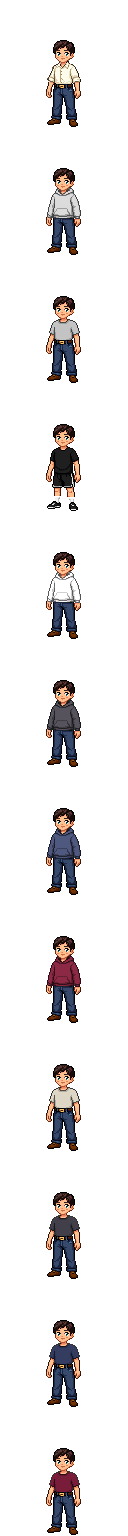
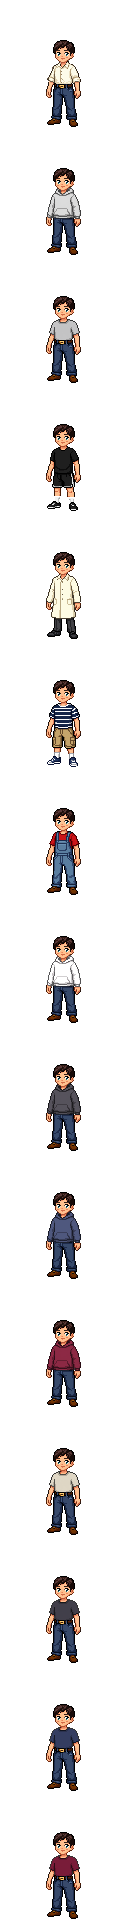
Daily 2.3.1 (sin publicar): ropa de chico para niño y niña
Claude-Session: https://claude.ai/code/session_018K2oLYSpPtdcPdEUVYj7Hk

Changed region(s): [[0.3438, 0.0, 0.625, 1.0]]

diff --git a/pruebas/t38.js b/pruebas/t38.js
@@ -43,6 +43,8 @@ const { chromium } = require('playwright'); const fs = require('fs');
     const cv = document.createElement('canvas'), cv2 = document.createElement('canvas'); PJ.pintar(cv, { sx: 'f', edad: 'mayor', peinado: 'rodete', prenda: 'buzo:azul' }); PJ.pintar(cv2, { sx: 'f', edad: 'mayor', prenda: 'buzo:azul' });
     return { pe: o.peinados.map(x => x[0]), joven: oj.peinados.map(x => x[0]), distinto: cv.toDataURL() !== cv2.toDataURL(), pr: PJ.opciones(PJ.normal({ sx: 'm', edad: 'adulto' })).prendas.map(x => x[0]) }; });
   ok(pm.pe.join() === 'base,rodete' && !pm.joven.includes('rodete') && pm.distinto, 'la mayor tiene anteojos o rodete (y la joven no tiene rodete): ' + JSON.stringify(pm));
+  const pn = await p.evaluate(async () => { const PJ = await import('./js/personaje.js'); await PJ.cargar(); return [PJ.opciones(PJ.normal({ sx: 'm', edad: 'nino' })).prendas.map(x => x[0]), PJ.opciones(PJ.normal({ sx: 'f', edad: 'nino' })).prendas.map(x => x[0]), PJ.opciones(PJ.normal({ sx: 'm' })).prendas.map(x => x[0])]; });
+  ok(['guardapolvo', 'rayada', 'jardinero'].every(x => pn[0].includes(x)) && ['guardapolvo', 'vestido', 'jardinero'].every(x => pn[1].includes(x)) && !pn[2].includes('guardapolvo'), 'los chicos tienen ropa de chico (y el joven no): ' + JSON.stringify(pn));
   ok(['remera', 'buzo', 'camisa', 'deportiva'].every(x => pm.pr.includes(x)) && !pm.pr.includes('sotana'), 'el adulto tiene toda la ropa laica del joven: ' + pm.pr);
   }
   if (listas.includes('nino')) { await p.click('.seg.edad button[data-p="edad|nino"]'); await p.waitForTimeout(600);

diff --git a/js/personaje.js b/js/personaje.js
@@ -4,8 +4,8 @@
 const VISTAS=["south"];   // desde la 1.6.1 la hoja trae solo el frente
 
 export const COLORES=[["gris","Gris","#A9ABB2"],["blanco","Blanco","#EEEDE8"],["negro","Negro","#2C2D33"],["azul","Azul","#2E3E66"],["bordo","Bordó","#6E1E2E"]];
-export const PRENDAS={m:[["base","Camisa clara"],["remera","Remera"],["buzo","Buzo"],["camisa","Camisa"],["deportiva","Deportiva"],["sotana","Sotana"],["clergyman","Clergyman"]],
-  f:[["base","Blusa y jean"],["remera","Remera"],["buzo","Buzo"],["pollera","Pollera"],["deportiva","Deportiva"],["consagrada","Consagrada"],["caridad","Misionera de la Caridad"],["dominica","Dominica"],["carmelita","Carmelita"]]};
+export const PRENDAS={m:[["base","Camisa clara"],["remera","Remera"],["buzo","Buzo"],["camisa","Camisa"],["deportiva","Deportiva"],["guardapolvo","Guardapolvo"],["rayada","Remera rayada"],["jardinero","Jardinero"],["sotana","Sotana"],["clergyman","Clergyman"]],
+  f:[["base","Blusa y jean"],["remera","Remera"],["buzo","Buzo"],["pollera","Pollera"],["deportiva","Deportiva"],["guardapolvo","Guardapolvo"],["vestido","Vestido"],["jardinero","Jardinero"],["consagrada","Consagrada"],["caridad","Misionera de la Caridad"],["dominica","Dominica"],["carmelita","Carmelita"]]};
 export const CON_COLOR=["remera","buzo","camisa","pollera"];
 export const VELO=["consagrada","caridad","dominica","carmelita"];
 export const FIJO={};   // 2.1.3: el clergyman y la deportiva ya tienen varios peinados (los que no existen no se ofrecen)

diff --git a/js/app.js b/js/app.js
@@ -1857,7 +1857,7 @@ try{ if(localStorage.getItem("daily_theme")==="light") document.documentElement.
    2) Al abrir la versión nueva: una vez, la hoja «Novedades» con lo que cambió desde la última que viste (NOVEDADES, la más nueva primero).
    En cada versión nueva hay que sumar su entrada acá (t38 lo comprueba). */
 const NOVEDADES=[
-  ["2.3.1",["Tu personaje puede ser niño, joven, adulto o mayor (en Yo), con toda su ropa y sus colores.","La abuela tiene dos peinados: con anteojos o con rodete."]],
+  ["2.3.1",["Tu personaje puede ser niño, joven, adulto o mayor (en Yo), con toda su ropa y sus colores.","Ropa de chico para el niño y la niña: guardapolvo, jardinero, remera rayada y vestido.","La abuela tiene dos peinados: con anteojos o con rodete."]],
   ["2.3",["Elegí el tono de piel de tu personaje (en Yo).","Lo que ya rezaste hoy aparece con un tilde, y el inicio te propone lo que te falta.","El lápiz para editar tu personaje está en la esquina.","Liturgia de las Horas: qué es y para qué sirve cada Hora.","Este aviso: cada vez que actualicemos la app, vas a ver acá las novedades."]],
   ["2.2.7",["Scaeli Daily está en su dirección propia: daily.scaeli.com.ar."]],
   ["2.2.6",["En Hoy podés anotar una caída de un hábito con el «−».","Lo que rezás en la app marca solo el hábito del mismo nombre.","Ya se puede conectar Google Calendar."]]];

diff --git a/herramientas/edades_pixellab.py b/herramientas/edades_pixellab.py
@@ -21,9 +21,13 @@ COLORES = E.COLORES
 LAICAS = {'m': ['base', 'remera', 'buzo', 'camisa', 'deportiva'], 'f': ['base', 'remera', 'buzo', 'pollera', 'deportiva']}
 CABEZAS = {('m', 'adulto'): {'base': 'adulto_m_base_1'}, ('m', 'mayor'): {'base': 'mayor_m_base_1'},
            ('f', 'adulto'): {'base': 'adulta_f_base_2'}, ('f', 'mayor'): {'base': 'mayor_f_base_2', 'rodete': 'mayor_f_base_3'}}
-NINOS = {'m': {'base|base': 'nino_m_base_3', 'buzo:gris|base': 'nino_m_buzo2', 'remera:gris|base': 'nino_m_remera', 'deportiva|base': 'nino_m_deportiva'},
+NINOS = {'m': {'base|base': 'nino_m_base_3', 'buzo:gris|base': 'nino_m_buzo2', 'remera:gris|base': 'nino_m_remera', 'deportiva|base': 'nino_m_deportiva',
+               'guardapolvo|base': 'nino_m_guardapolvo', 'rayada|base': 'nino_m_rayada', 'jardinero|base': 'nino_m_jardinero'},
          'f': {'base|base': 'nina_f_base_2', 'buzo:gris|base': 'nina_f_buzo', 'remera:gris|base': 'nina_f_remera',
-               'pollera:gris|base': 'nina_f_pollera', 'deportiva|base': 'nina_f_deportiva'}}
+               'pollera:gris|base': 'nina_f_pollera', 'deportiva|base': 'nina_f_deportiva',
+               'guardapolvo|base': 'nina_f_guardapolvo', 'vestido|base': 'nina_f_vestido', 'jardinero|base': 'nina_f_jardinero'}}
+# ropa de chico (2.3.1, «los niños pueden tener ropa justamente de niño»): guardapolvo blanco, jardinero de jean,
+# remera rayada con bermuda (él) y vestido (ella); sin colores, como salieron de PixelLab
 
 def img(p): return np.array(Image.open(p).convert('RGBA')).astype(int)
 def frame(sx, k): return np.array(E.frame(E.hoja(sx), sx, k)).astype(int)

diff --git a/LEEME-DAILY.md b/LEEME-DAILY.md
@@ -52,9 +52,9 @@ bash pruebas/todo.sh                                     # levanta el servidor e
 - **Más adelante**: poses de oración; insignias del grupo leídas por el juego; el logo del atleta en las 8 vistas de Fit.
 
 ## Últimas versiones (detalle en LEEME-PRIMERO.md)
-- **2.3.1** (16/11, «la mujer adulta, adulta mayor, los niños y el adulto mayor están muy mal hechos… los niños tienen que ser con otro cuerpo»): **edades rehechas en PixelLab** (cuenta de Lorenzo, Creator, modelo Pixen, 1 generación cada imagen; se usaron 22 de 40). Mientras tanto la app publicada siguió en 2.3 (no se publicó nada sin su ok). Lorenzo eligió entre opciones: niño 1, niña B, adulto 1 (barba), adulta, mayor él, y la mayor con **dos peinados** (anteojos = `base`, rodete = `rodete`, nuevo en `PEINADOS.f`, solo existe en `f_mayor`).
+- **2.3.1** (16/11, «la mujer adulta, adulta mayor, los niños y el adulto mayor están muy mal hechos… los niños tienen que ser con otro cuerpo»): **edades rehechas en PixelLab** (cuenta de Lorenzo, Creator, modelo Pixen, 1 generación cada imagen; se usaron 28 de 40). Mientras tanto la app publicada siguió en 2.3 (no se publicó nada sin su ok). Lorenzo eligió entre opciones: niño 1, niña B, adulto 1 (barba), adulta, mayor él, y la mayor con **dos peinados** (anteojos = `base`, rodete = `rodete`, nuevo en `PEINADOS.f`, solo existe en `f_mayor`).
   - **Adultos y mayores**: «Edit image» sobre el dibujo del joven con la ropa de base («Change his/her age to…, keep the same pose, body size, clothes»). PixelLab cambia solo la cabeza (filas 0–40), así que `herramientas/edades_pixellab.py` pone esa cabeza sobre **toda la ropa laica del joven** (camisa clara, remera, buzo, camisa, deportiva, pollera, cinco colores) sin más créditos: arriba la cabeza entera, en la franja del cuello lo que la edad cambió (barba, canas) y la cara del joven, abajo la ropa; si la edad no tiene la colita del joven, se rellena con la ropa del otro hombro (espejo).
-  - **Niños**: dibujo nuevo con «Create image» de 96 × 96 (más bajo, otro cuerpo; prompt «realistic child proportions, not chibi, not anime… western RPG style»), pies alineados con el joven en el lienzo de 128; su ropa con «Edit image» (buzo con capucha baja, remera, deportiva y pollera, en gris) y los otros colores teñidos (`edades.recolor`).
+  - **Niños**: dibujo nuevo con «Create image» de 96 × 96 (más bajo, otro cuerpo; prompt «realistic child proportions, not chibi, not anime… western RPG style»), pies alineados con el joven en el lienzo de 128; su ropa con «Edit image» (buzo con capucha baja, remera, deportiva y pollera, en gris) y los otros colores teñidos (`edades.recolor`). Además **ropa de chico** («los niños pueden tener ropa justamente de niño»): guardapolvo blanco, jardinero de jean, remera rayada con bermuda (él) y vestido celeste (ella), sin colores (`PRENDAS`: guardapolvo, rayada, jardinero, vestido; solo existen en las hojas de niños).
   - Fuentes en `herramientas/pixellab_edades/` (también las opciones descartadas). Cómo se bajan las imágenes de PixelLab sin descargar archivos: el Creator las tiene como `data:` en la página; se codifican (paleta + índices comprimidos) en un `<article>` oculto y se leen con el texto de la página.
   - Las edades de Gemini de la 2.3 quedaron reemplazadas (`herramientas/edades.py` sigue sirviendo por `recolor`). `EDADES_LISTAS` (js/personaje.js) dice qué edades se ofrecen; una edad oculta cae en Joven. NOVEDADES 2.3.1. t38 actualizada (cuatro edades, rodete, ropa laica del adulto). SW v44; Android versionCode 11.
 - **2.3** (16/11, «cada vez que actualicemos tiene que aparecer un aviso… más colores de piel… el lápiz en una esquina… marcá las cosas que ya se hicieron… explicar qué es la Liturgia de las Horas»):
